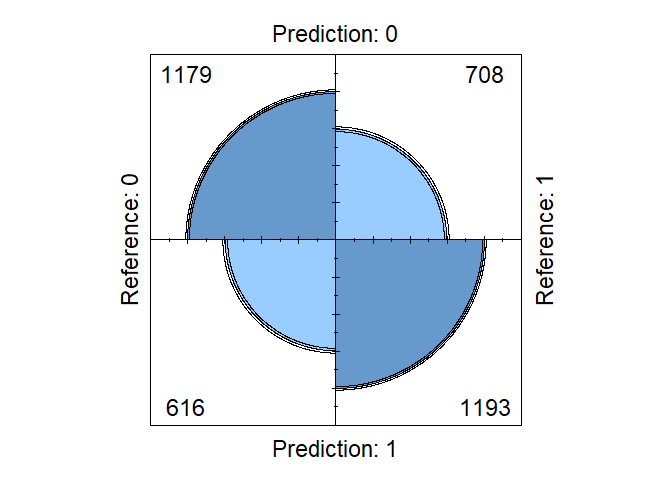
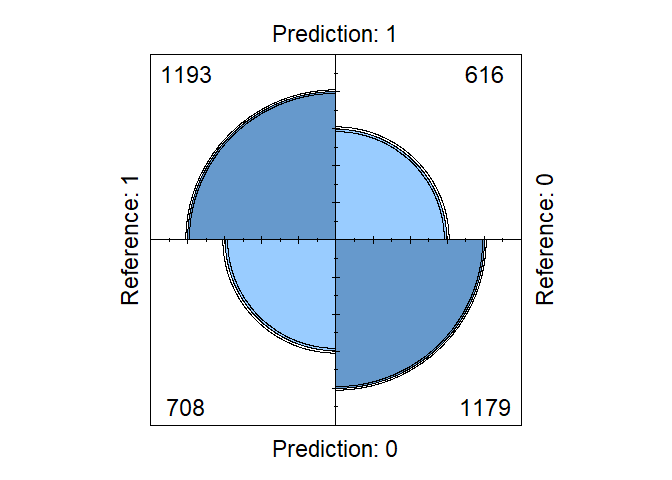
updates

diff --git a/report.html b/report.html
@@ -981,23 +981,23 @@ dat_nnn &lt;- read_csv('Song/race2.csv')</code></pre>
   mutate(highlow = case_when(decile_score.1 &gt; 5 ~ 1,
                              T                  ~ 0))
 
-p_class &lt;- factor(x$highlow)
-class_levels &lt;- factor(x$two_year_recid)
+p_class &lt;- factor(x$highlow, levels = c(1,0))
+class_levels &lt;- factor(x$two_year_recid, levels = c(1,0))
 
 re &lt;- confusionMatrix(p_class, class_levels, positive = '1')
 fourfoldplot(re$table)</code></pre>
[2 lines of base64/hex data omitted]
 <pre class="r"><code>y &lt;- dat_o %&gt;% 
   filter(race == 'African-American') %&gt;% 
   select(race, two_year_recid, decile_score.1) %&gt;% 
   mutate(highlow = case_when(decile_score.1 &gt; 5 ~ 1,
                              T                  ~ 0))
 
-p_class &lt;- factor(y$highlow)
-class_levels &lt;- factor(y$two_year_recid)
+p_class &lt;- factor(y$highlow, levels = c(1,0))
+class_levels &lt;- factor(y$two_year_recid, levels = c(1,0))
 re &lt;- confusionMatrix(p_class, class_levels)
 fourfoldplot(re$table)</code></pre>
[2 lines of base64/hex data omitted]
 <table>
 <thead>
 <tr class="header">
@@ -1090,9 +1090,7 @@ fourfoldplot(re$table, color = c('#7fff3f' , '#3fbfff'))</code></pre>
 <div id="conclusions-including-business-takeaways-and-action-items" class="section level1">
 <h1>Conclusions (including business takeaways and action items)</h1>
 <ol style="list-style-type: decimal">
-<li>False positive<br />
-Under development<br />
-</li>
+<li>Bias When we compare the confusion matrix of the our result there is some clues that might suggest African-americans are getting the short end of the stick. A lower specificity indicate that the algorithm is not as forgiving</li>
 <li>Score and accuracy<br />
 Under development<br />
 </li>

diff --git a/report.md b/report.md
@@ -769,8 +769,8 @@ x <- dat_o %>%
   mutate(highlow = case_when(decile_score.1 > 5 ~ 1,
                              T                  ~ 0))
 
-p_class <- factor(x$highlow)
-class_levels <- factor(x$two_year_recid)
+p_class <- factor(x$highlow, levels = c(1,0))
+class_levels <- factor(x$two_year_recid, levels = c(1,0))
 
 re <- confusionMatrix(p_class, class_levels, positive = '1')
 fourfoldplot(re$table)
@@ -785,8 +785,8 @@ y <- dat_o %>%
   mutate(highlow = case_when(decile_score.1 > 5 ~ 1,
                              T                  ~ 0))
 
-p_class <- factor(y$highlow)
-class_levels <- factor(y$two_year_recid)
+p_class <- factor(y$highlow, levels = c(1,0))
+class_levels <- factor(y$two_year_recid, levels = c(1,0))
 re <- confusionMatrix(p_class, class_levels)
 fourfoldplot(re$table)
 ```
@@ -897,8 +897,8 @@ fourfoldplot(re$table, color = c('#7fff3f' , '#3fbfff'))
 
     
 # Conclusions (including business takeaways and action items)  
-1.    False positive  
-Under development  
+1.    Bias
+When we compare the confusion matrix  of the our result there is some clues that might suggest African-americans are getting the short end of the stick. A lower specificity indicate that the algorithm is not as forgiving 
 2.    Score and accuracy   
 Under development  
 3.    Limitations  
